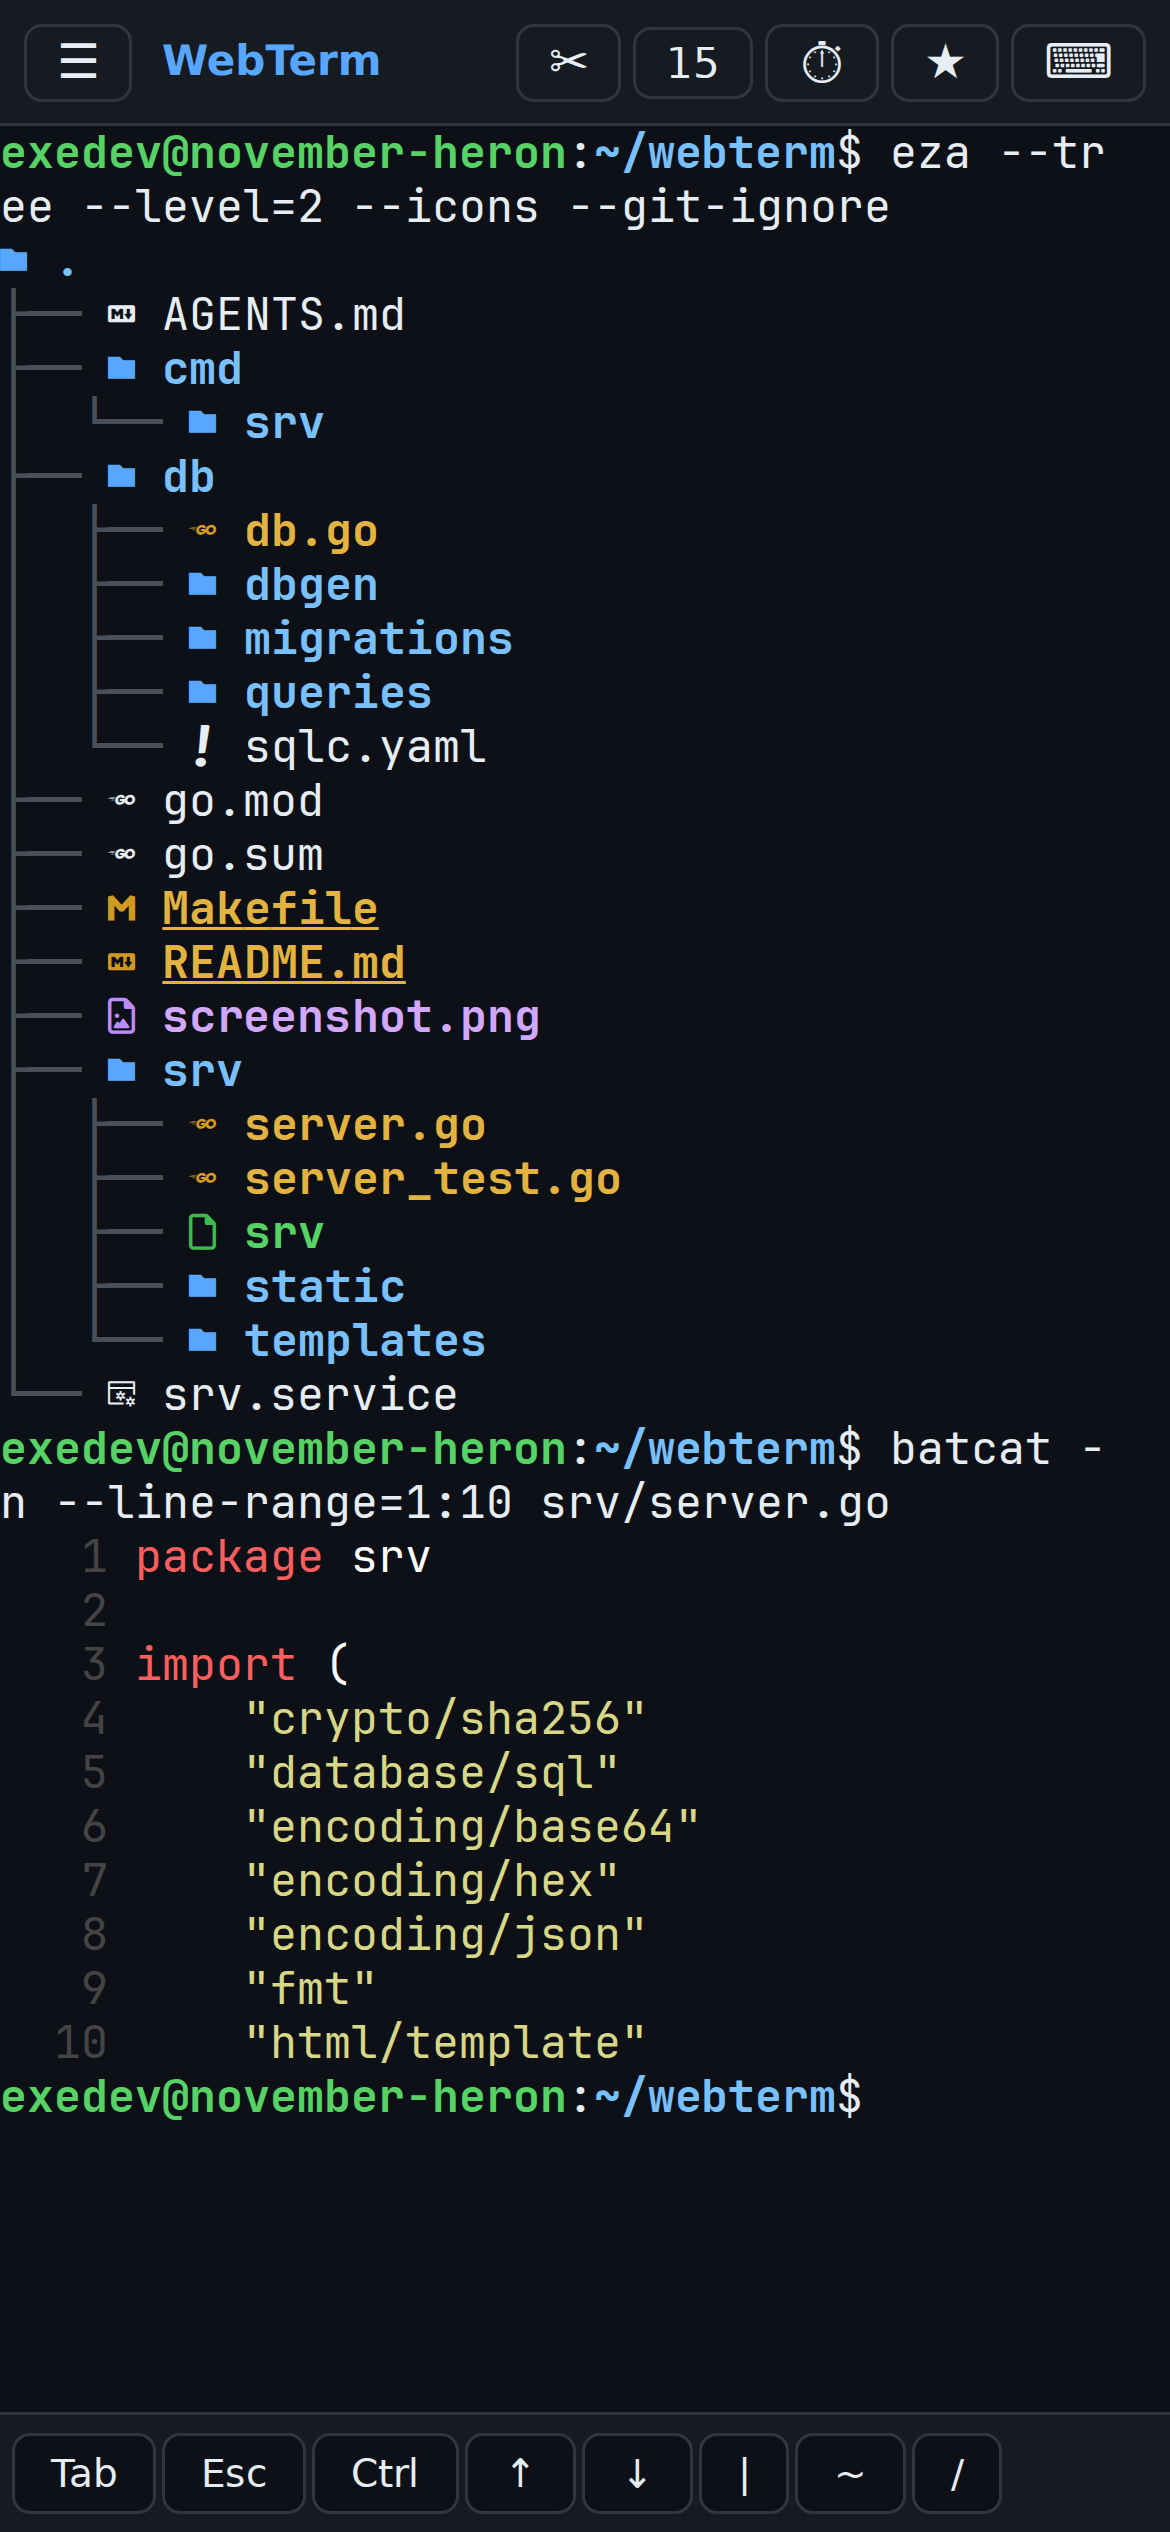
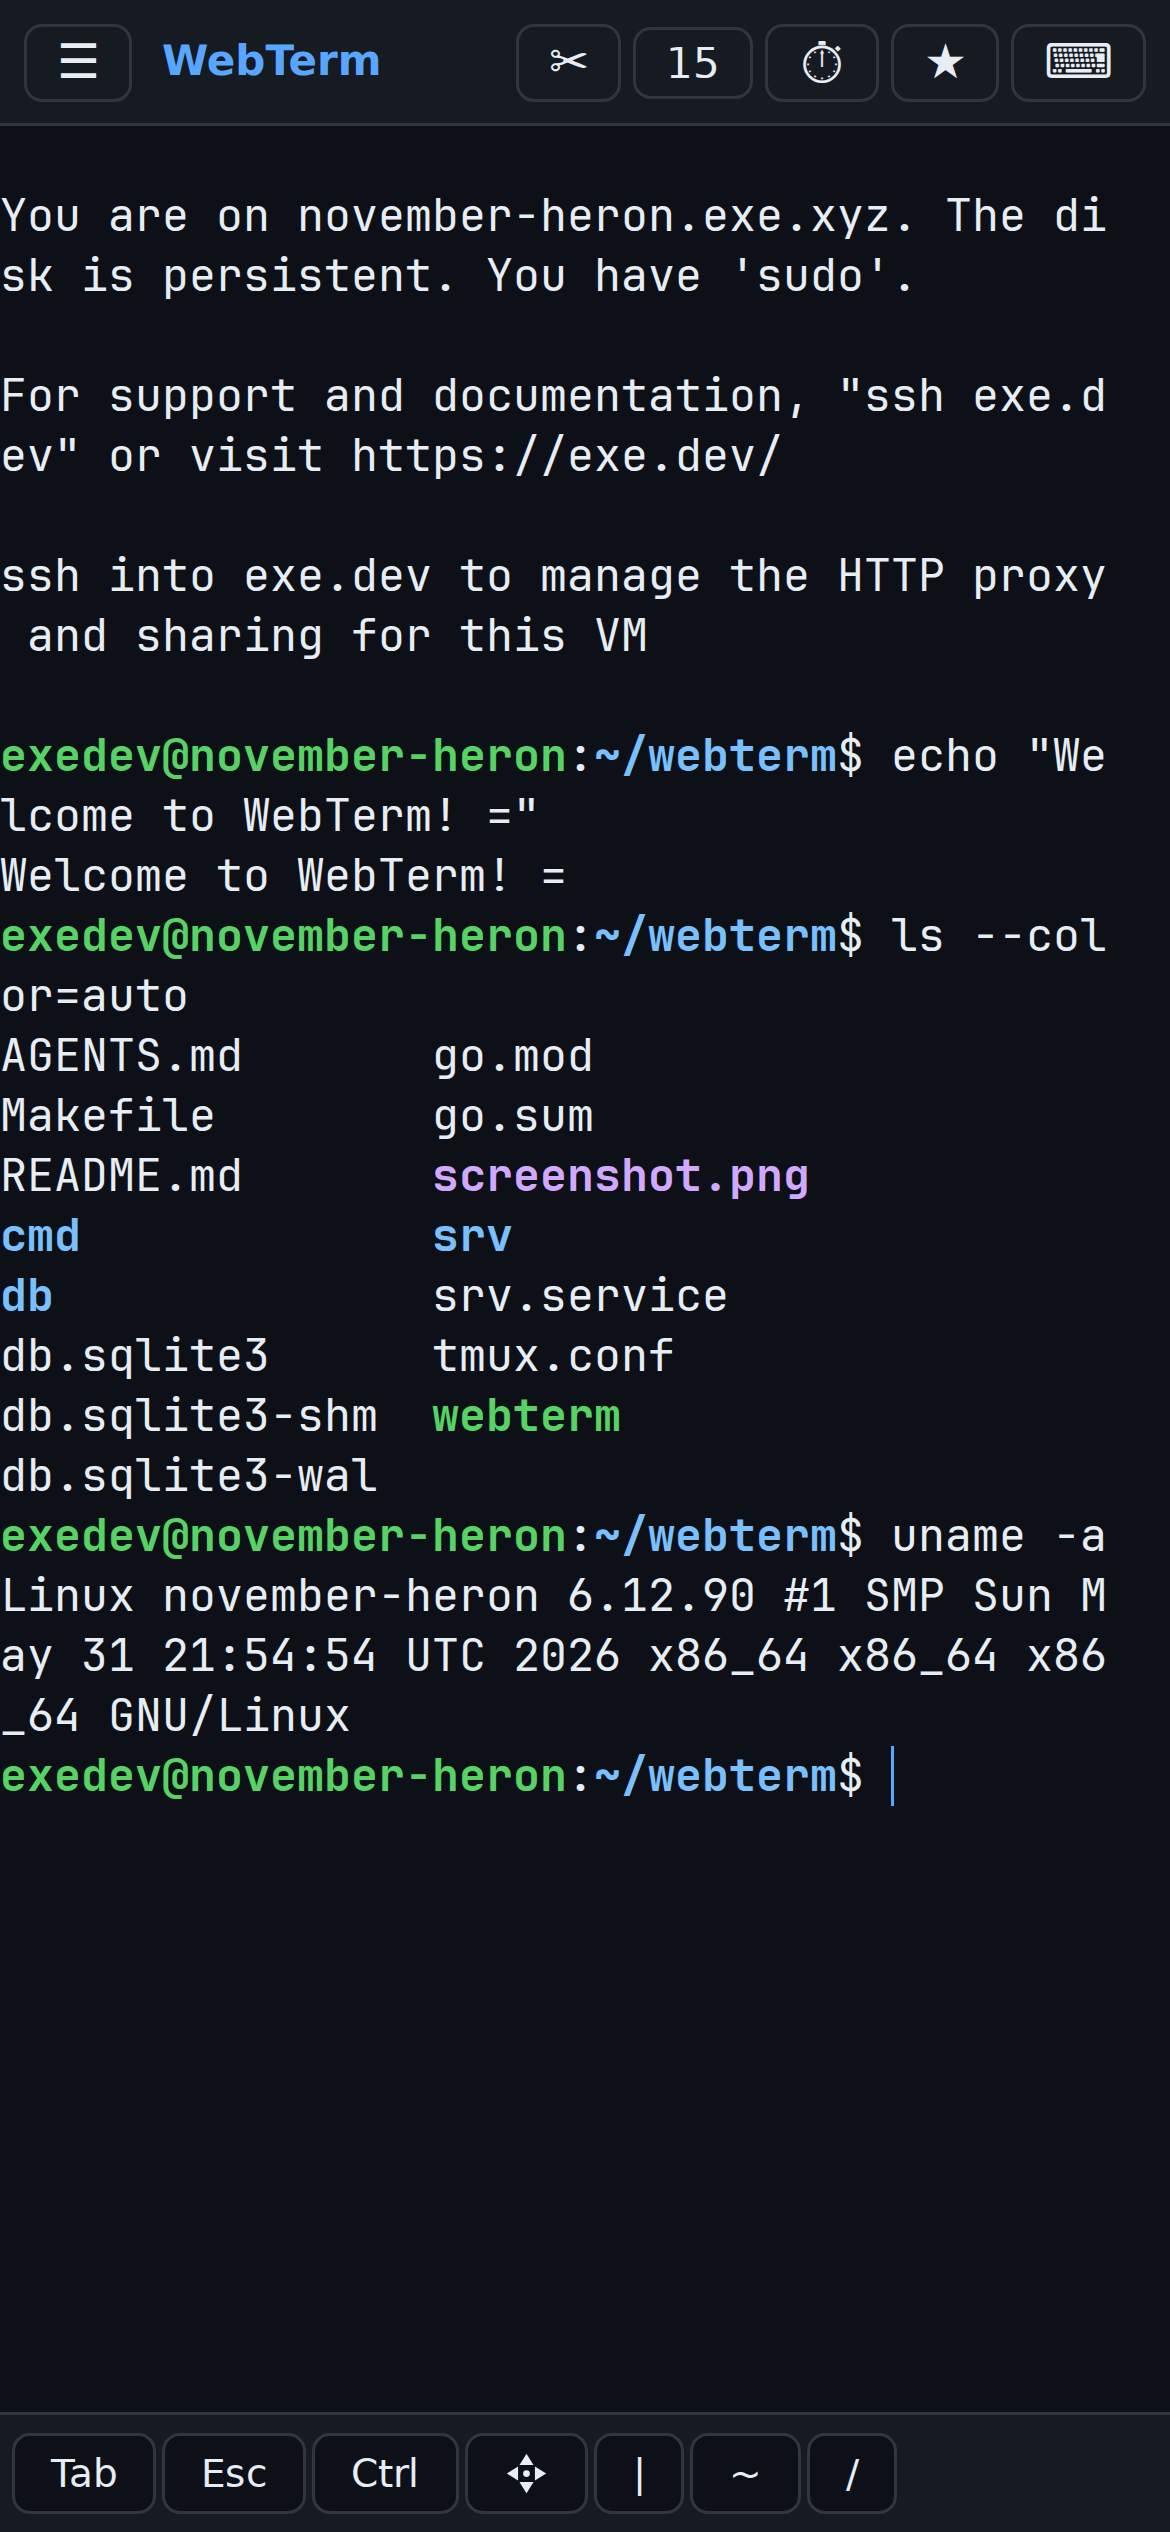
Update README and screenshot
- New screenshot showing terminal with d-pad in quick-bar
- Add tmux session management to feature list
- Expand d-pad description with auto-repeat detail

diff --git a/README.md b/README.md
@@ -9,13 +9,16 @@ A mobile-friendly web terminal for [exe.dev](https://exe.dev) VMs. Built with Go
 ## Features
 
 **Terminal**
-- Full PTY-backed bash shell over WebSocket
+- Full PTY-backed bash shell over WebSocket via tmux
+- Session picker on launch — resume existing tmux sessions or start new ones
+- Multiple concurrent sessions with automatic naming
 - xterm.js with 256-color support, clickable links, 5000-line scrollback
 - Proper UTF-8 handling (emoji, Unicode symbols, etc.)
 - Auto-reconnect on disconnect
 
 **Mobile-first UI**
-- Quick-action bar: `Tab`, `Esc`, d-pad (swipe for ↑↓←→), `|`, `~`, `/`
+- Quick-action bar: `Tab`, `Esc`, `Ctrl`, d-pad, `|`, `~`, `/`
+- **D-pad button**: touch and swipe in any direction to send arrow keys (↑↓←→), with auto-repeat on hold
 - Two-tap **Ctrl** submenu: tap Ctrl then pick C/D/Z/L/A/E/R/U/W
 - Buttons don't steal focus — on-screen keyboard stays open
 - `interactive-widget=resizes-content` viewport meta + flexbox layout so the terminal resizes when the keyboard opens
